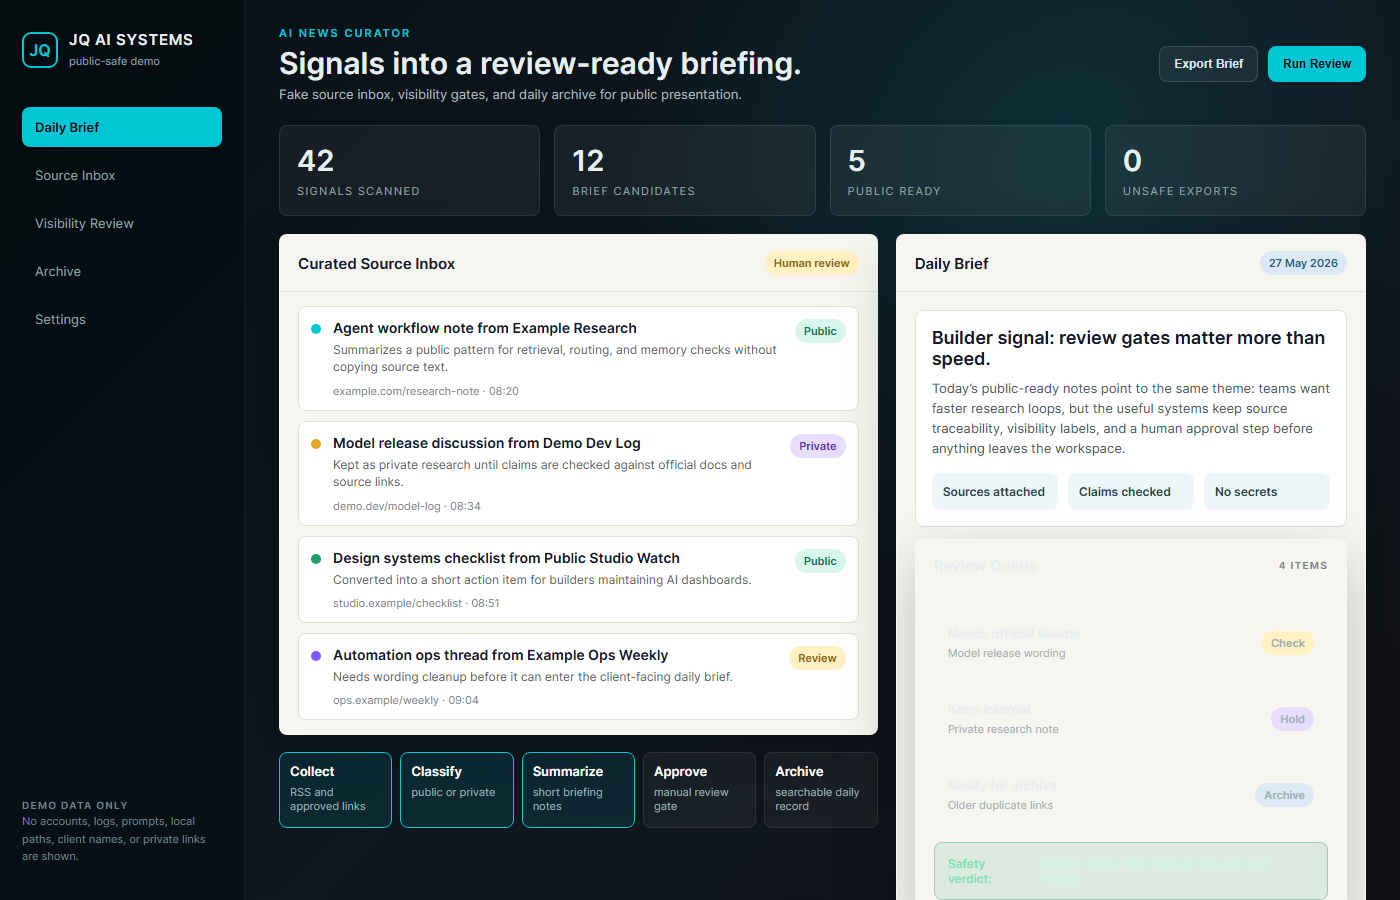
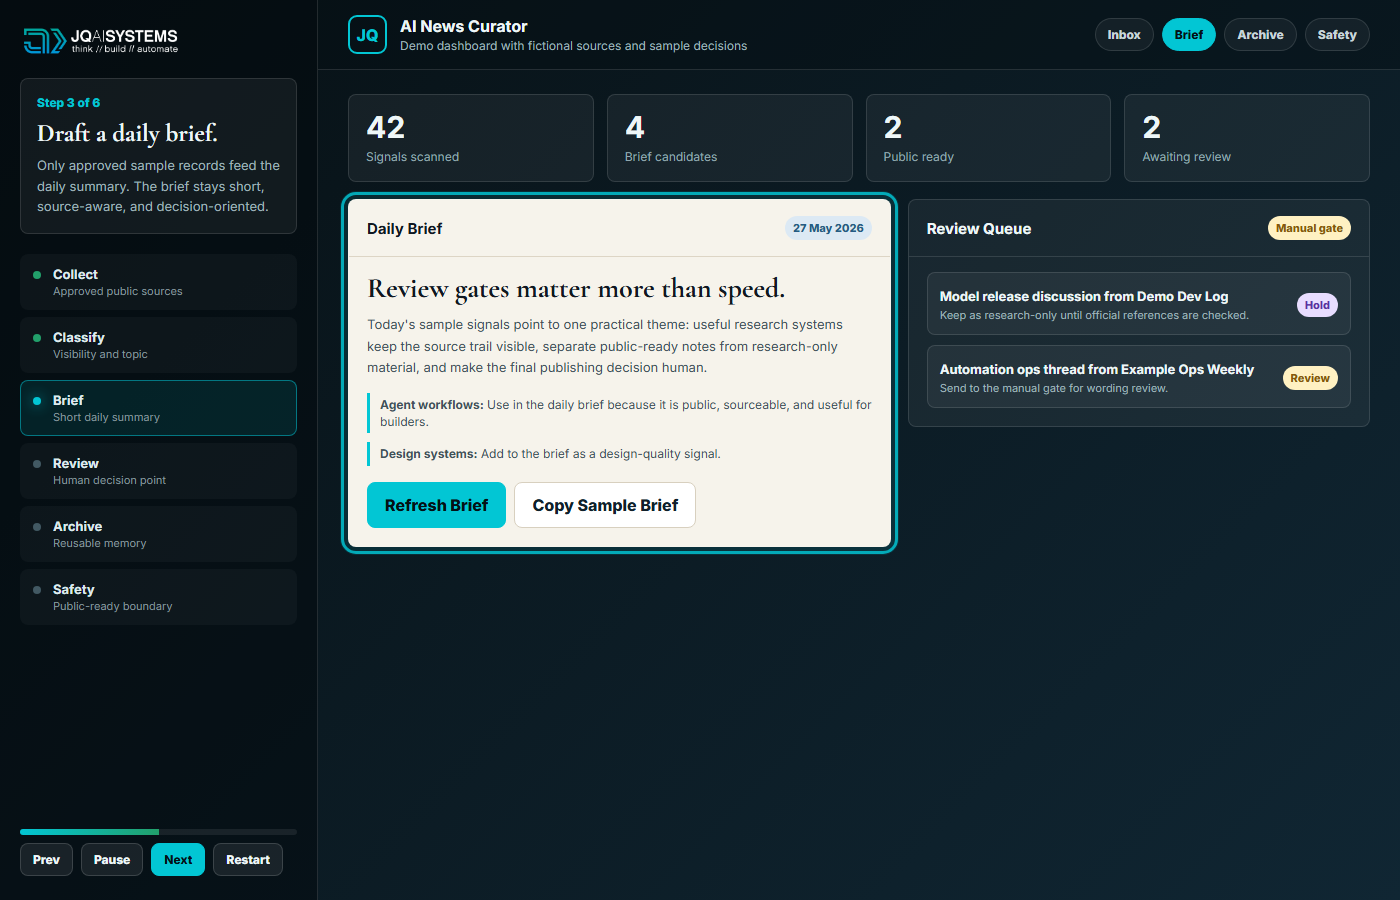
Point AI News Curator to live demo

diff --git a/README.md b/README.md
@@ -16,7 +16,7 @@ This repo is a client-facing gallery. It is here to show how the systems behave:
 | Etsy to Pinterest Pipeline | ![Etsy to Pinterest Pipeline](screenshots/etsy-to-pinterest-demo.png) | [Open demo](https://www.ai.joaoqueiros.com/demo/etsy-to-pinterest.html) |
 | OutreachIQ | ![OutreachIQ](screenshots/outreach-iq-demo.png) | [Open demo](https://www.ai.joaoqueiros.com/demo/outreach-iq.html) |
 | Adobe Stock Uploader | ![Adobe Stock Uploader](screenshots/adobe-stock-uploader-demo.png) | [Open demo](https://www.ai.joaoqueiros.com/demo/adobe-stock-uploader.html) |
-| AI News Curator | ![AI News Curator](screenshots/ai-news-curator-demo.png) | [Open case study](https://www.ai.joaoqueiros.com/systems/ai-news-curator) |
+| AI News Curator | ![AI News Curator](screenshots/ai-news-curator-demo.png) | [Open demo](https://www.ai.joaoqueiros.com/demo/ai-news-curator.html) |
 
 ## What These Demos Show
 
